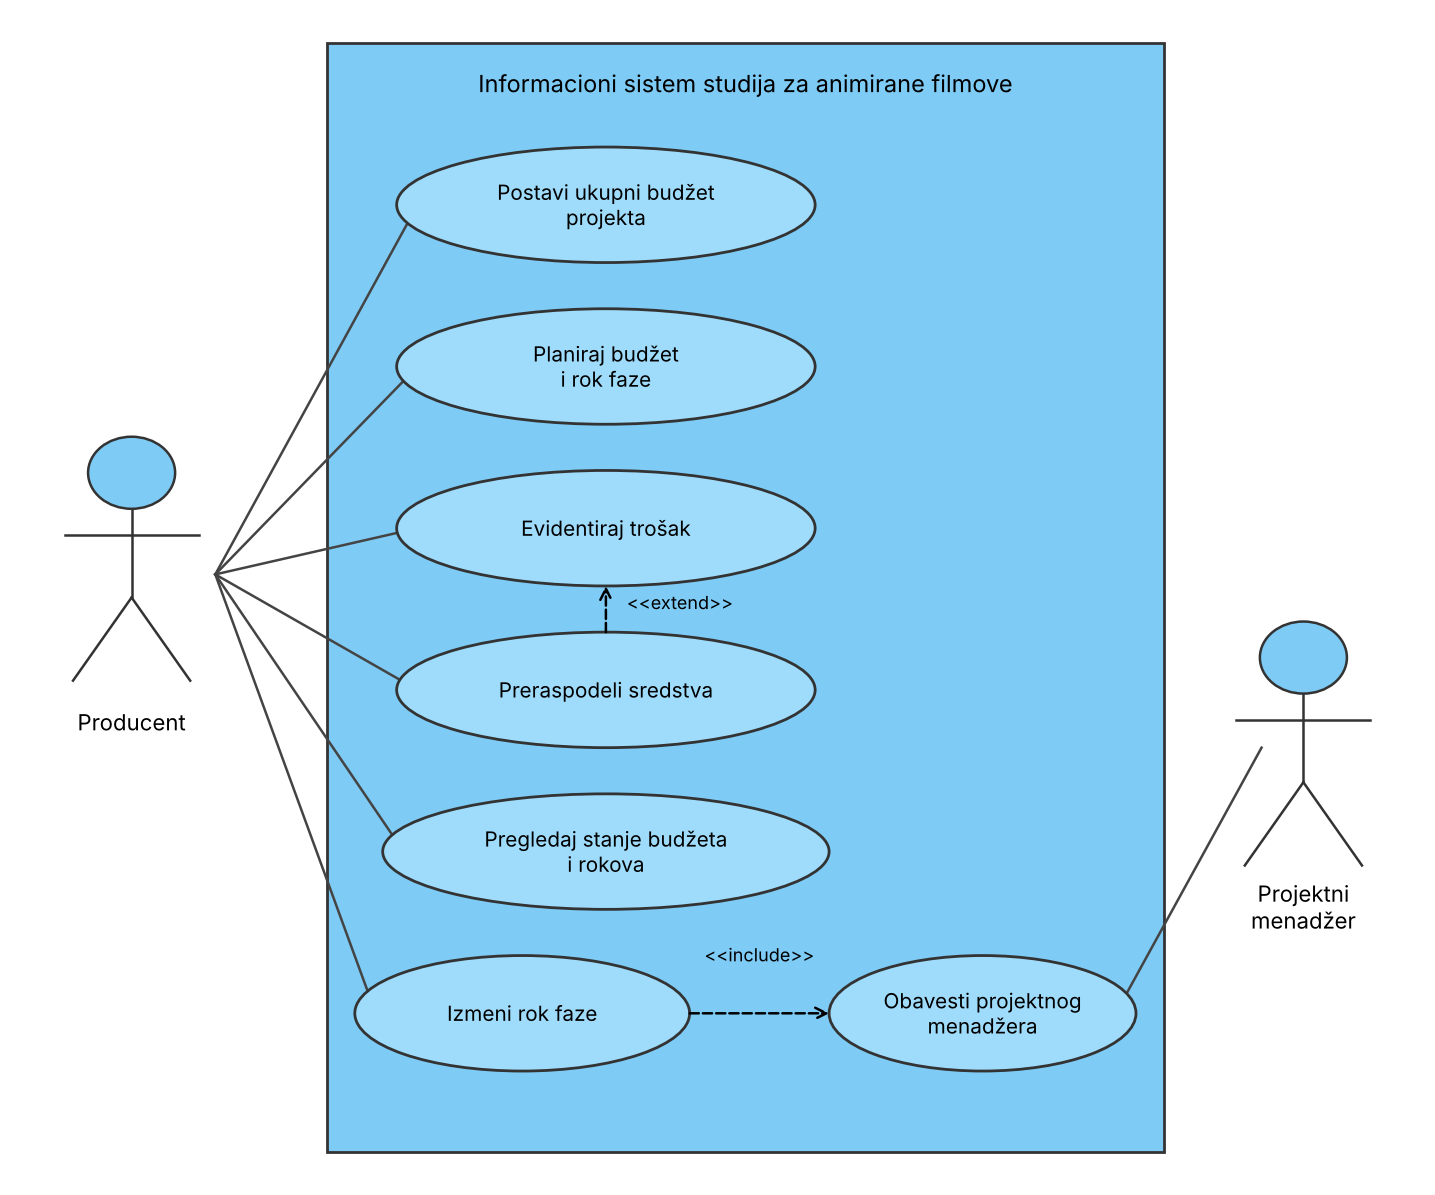
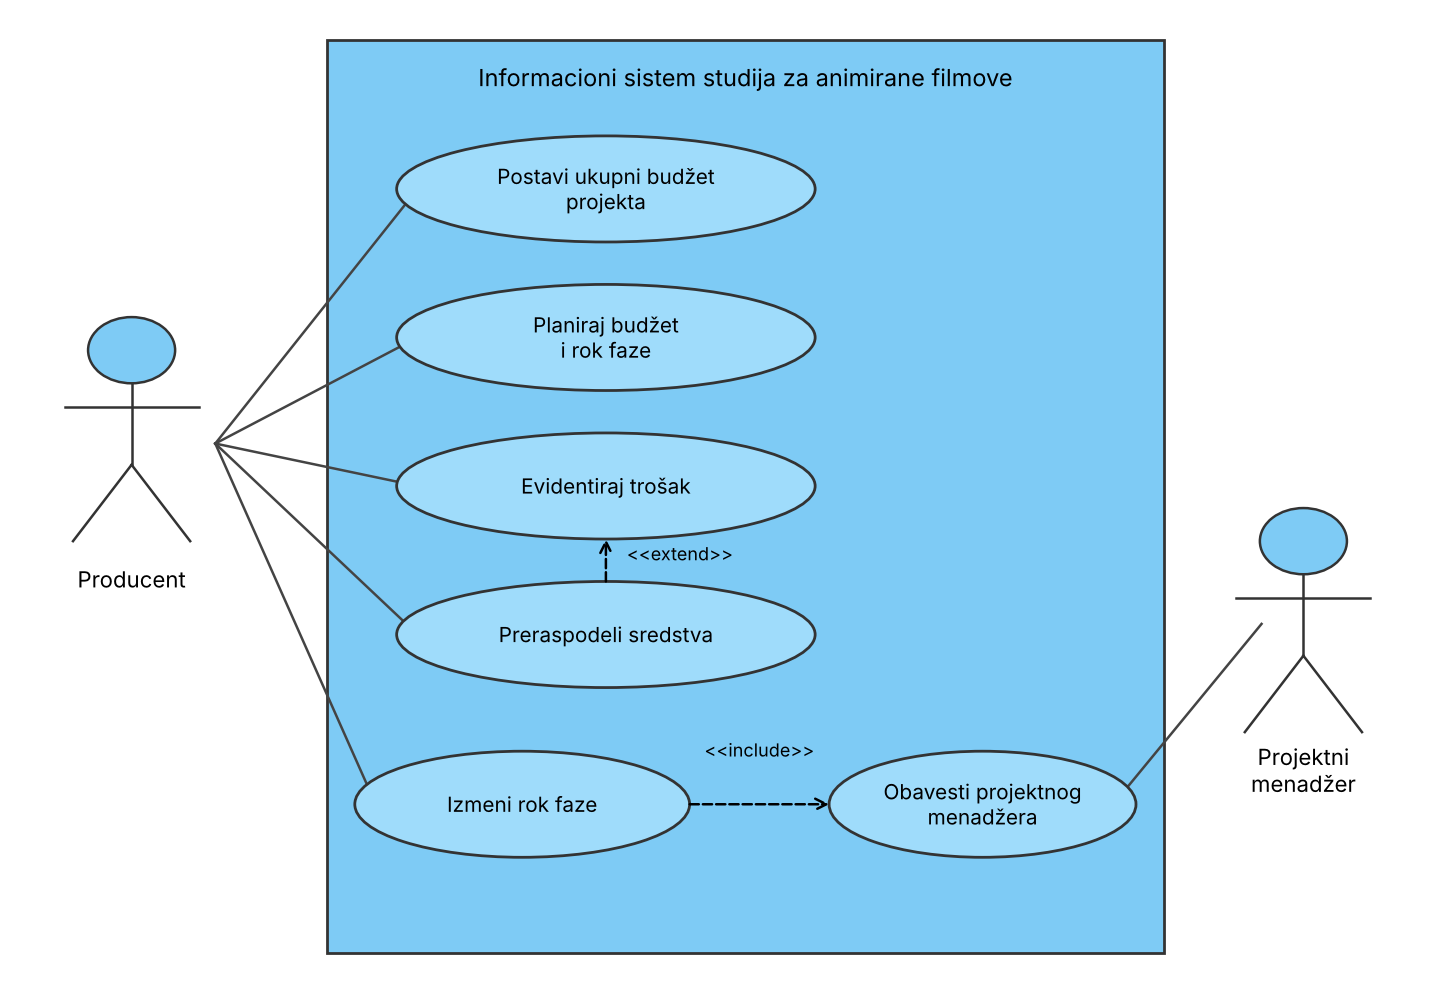
ispravka su upravljanje budzetom i rokovima

diff --git a/dokumentacija/upravljanje_budzetom_i_rokovima.tex b/dokumentacija/upravljanje_budzetom_i_rokovima.tex
@@ -2,12 +2,7 @@
 
 \subsubsection*{Kratak opis}
 
-Producent za projekat animiranog filma postavlja ukupni budžet i planira
-budžet i rokove po fazama produkcije (razvoj ideje, scenario, dizajn,
-animacija, montaža, postprodukcija, distribucija). Tokom produkcije evidentira
-troškove, prati utrošak sredstava i poštovanje rokova, a kada se približi
-granici budžeta ili roka, preraspodeljuje sredstva ili menja rok faze.
-Projektni menadžer obaveštava se o promenama rokova faza, jer na osnovu njih organizuje produkciju i dodeljuje zadatke.
+Producent za projekat animiranog filma postavlja ukupni budžet i rokove po fazama produkcije, a zatim evidentira troškove i prati utrošak. Kada utrošak ili rok pređu dozvoljenu granicu, producent preraspodeljuje sredstva ili menja rok faze, a projektni menadžer se obaveštava o promeni roka.
 
 \subsubsection*{Akteri}
 \begin{itemize}
@@ -31,61 +26,85 @@ Projektni menadžer obaveštava se o promenama rokova faza, jer na osnovu njih o
 \begin{enumerate}
     \item Producent bira projekat i opciju ,,Budžet i rokovi''.
     \item Sistem prikazuje pregled faza produkcije sa planiranim budžetom, rokovima i trenutnim utroškom.
-    \item Producent bira opciju ,,Planiraj budžet'' i unosi ukupni budžet projekta, kao i za svaku fazu planirani iznos, datum početka i datum završetka.
+    \item Producent bira opciju ,,Planiraj budžet'' i unosi ukupni budžet projekta, kao i budžet i rokove za svaku fazu.
     \item Sistem proverava podatke i čuva budžet i rokove.
-    \item Producent bira opciju ,,Dodaj trošak'' i unosi fazu, iznos, datum i opis troška.
-    \item Sistem proverava podatke, evidentira trošak, ažurira utrošak faze i prikazuje preostala sredstva i procenat utroška. Koraci 5 i 6 se ponavljaju kad god nastane novi trošak.
-    \item Ako utrošak pređe 80\% budžeta faze ili je rok faze probijen, sistem prikazuje upozorenje i nudi preraspodelu sredstava (podtok P2) ili izmenu roka (podtok P1).
+    \item Producent bira opciju ,,Dodaj trošak'' i unosi podatke o trošku.
+    \item Sistem proverava podatke, evidentira trošak, ažurira utrošak faze i prikazuje preostala sredstva. Koraci 5 i 6 se ponavljaju za svaki novi trošak.
 \end{enumerate}
 
 \subsubsection*{Podtokovi}
 
-\paragraph*{P1: Izmena roka faze}
+\paragraph*{P1: Preraspodela sredstava između faza}
 \begin{enumerate}
-    \item Producent u pregledu faza bira fazu i opciju ,,Izmeni rok''.
+    \item Producent bira opciju ,,Preraspodeli sredstva''.
+    \item Producent bira fazu iz koje se sredstva prenose, fazu u koju se prenose, unosi iznos i razlog i potvrđuje.
+    \item Sistem proverava da budžet faze iz koje se sredstva prenose ne padne ispod već utrošenog iznosa, ažurira budžete obe faze i beleži izmenu. Ukupni budžet projekta ostaje isti.
+\end{enumerate}
+Podtok se poziva iz alternativnog toka A3, a po završetku se nastavlja od koraka 5 osnovnog toka.
+
+\paragraph*{P2: Izmena roka faze}
+\begin{enumerate}
+    \item Producent bira fazu i opciju ,,Izmeni rok''.
     \item Producent unosi novi datum početka i/ili završetka i razlog izmene.
     \item Sistem proverava da novi rok ne dolazi u sukob sa fazama koje zavise od izabrane faze, čuva izmenu i obaveštava projektnog menadžera.
 \end{enumerate}
-
-\paragraph*{P2: Preraspodela sredstava između faza}
-\begin{enumerate}
-    \item Producent bira opciju ,,Preraspodeli sredstva''.
-    \item Producent bira fazu iz koje se sredstva prenose, fazu u koju se prenose i iznos, unosi razlog i potvrđuje.
-    \item Sistem proverava da budžet faze izvora ne padne ispod već utrošenog iznosa, ažurira budžete obe faze i beleži izmenu. Ukupni budžet projekta ostaje isti.
-\end{enumerate}
-
-\paragraph*{P3: Pregled stanja budžeta i rokova}
-\begin{enumerate}
-    \item Producent bira opciju ,,Stanje budžeta i rokova''.
-    \item Sistem prikazuje za svaku fazu planirani budžet, utrošena sredstva, preostali iznos, odstupanje od plana i status roka (u roku, kasni, završena).
-    \item Producent po želji filtrira prikaz po fazi ili vremenskom periodu.
-\end{enumerate}
+Podtok se poziva iz alternativnog toka A4, a po završetku se nastavlja od koraka 5 osnovnog toka.
 
 \subsubsection*{Alternativni tokovi}
 
 \paragraph*{A1: Nepopunjena ili neispravna polja}
 \begin{itemize}
-    \item U koracima 4 i 6 osnovnog toka, kao i u koracima 3 podtoka P1 i P2, ako neko obavezno polje nije popunjeno ili je neispravno (datum završetka pre datuma početka, zbir budžeta faza veći od ukupnog budžeta), sistem ga označava i vraća producenta na unos.
+    \item \textbf{Izaziva ga:} korak 4 i korak 6 osnovnog toka, kao i korak 3 podtokova P1 i P2, ako neko obavezno polje nije popunjeno ili je neispravno (datum završetka pre datuma početka, zbir budžeta faza veći od ukupnog budžeta).
+    \item \textbf{Ispravka:}
+    \begin{enumerate}
+        \item Sistem označava neispravna polja i prikazuje poruku o grešci.
+        \item Producent ispravlja podatke i ponovo potvrđuje unos.
+    \end{enumerate}
+    \item \textbf{Povratak:} na korak 3 osnovnog toka (ako je izazvan korakom 4), na korak 5 osnovnog toka (ako je izazvan korakom 6), odnosno na korak 2 podtoka.
 \end{itemize}
 
 \paragraph*{A2: Budžet je već postavljen}
 \begin{itemize}
-    \item U koraku 3 osnovnog toka, ako projekat već ima budžet, sistem prikazuje postojeće vrednosti za izmenu umesto praznog unosa; izmena se čuva uz razlog.
+    \item \textbf{Izaziva ga:} korak 3 osnovnog toka, ako projekat već ima postavljen budžet.
+    \item \textbf{Ispravka:}
+    \begin{enumerate}
+        \item Sistem prikazuje postojeće vrednosti budžeta i rokova za izmenu.
+        \item Producent menja vrednosti i unosi razlog izmene.
+    \end{enumerate}
+    \item \textbf{Povratak:} na korak 4 osnovnog toka.
 \end{itemize}
 
-\paragraph*{A3: Prekoračenje budžeta faze}
+\paragraph*{A3: Utrošak faze prešao 80\% budžeta ili je budžet prekoračen}
 \begin{itemize}
-    \item U koraku 6 osnovnog toka, ako bi trošak premašio preostala sredstva faze, sistem upozorava producenta i nudi preraspodelu sredstava (podtok P2) ili evidentiranje troška uz obavezno obrazloženje.
+    \item \textbf{Izaziva ga:} korak 6 osnovnog toka, ako utrošak faze pređe 80\% njenog budžeta ili ako trošak premašuje preostala sredstva faze.
+    \item \textbf{Ispravka:}
+    \begin{enumerate}
+        \item Sistem prikazuje upozorenje o stanju budžeta faze. Ako trošak premašuje preostala sredstva, ne evidentira ga dok producent ne izabere nastavak.
+        \item Producent bira preraspodelu sredstava (podtok P1) ili nastavlja bez preraspodele, uz unos obrazloženja ako je budžet prekoračen.
+        \item Sistem evidentira trošak i prikazuje ažurirano stanje faze.
+    \end{enumerate}
+    \item \textbf{Povratak:} na korak 5 osnovnog toka.
 \end{itemize}
 
 \paragraph*{A4: Probijen rok faze}
 \begin{itemize}
-    \item U koraku 7 osnovnog toka i u podtoku P3, ako je datum završetka faze prošao, a faza nije završena, sistem je označava kao ,,kasni'' i nudi izmenu roka (podtok P1).
+    \item \textbf{Izaziva ga:} korak 6 osnovnog toka, ako je datum završetka faze prošao, a faza nije završena.
+    \item \textbf{Ispravka:}
+    \begin{enumerate}
+        \item Sistem označava fazu kao ,,kasni'' i prikazuje upozorenje.
+        \item Producent bira izmenu roka (podtok P2) ili nastavlja bez izmene.
+    \end{enumerate}
+    \item \textbf{Povratak:} na korak 5 osnovnog toka.
 \end{itemize}
 
 \paragraph*{A5: Odustajanje}
 \begin{itemize}
-    \item U bilo kom koraku producent može da odustane; sistem ne čuva nesačuvane izmene i vraća ga na stranicu projekta.
+    \item \textbf{Izaziva ga:} bilo koji korak osnovnog toka ili podtokova, ako producent odustane.
+    \item \textbf{Ispravka:}
+    \begin{enumerate}
+        \item Sistem odbacuje nesačuvane izmene i vraća producenta na stranicu projekta.
+    \end{enumerate}
+    \item \textbf{Povratak:} nema povratka, slučaj upotrebe se završava.
 \end{itemize}
 
 \subsubsection*{Specijalni zahtevi}
@@ -97,25 +116,33 @@ Projektni menadžer obaveštava se o promenama rokova faza, jer na osnovu njih o
 
 \subsubsection*{Dodatne informacije}
 \begin{itemize}
+    \item Budžet i rok se planiraju za faze produkcije: razvoj ideje, scenario, dizajn likova i okruženja, animacija, montaža, postprodukcija i distribucija.
+    \item Polja formulara za budžet projekta: ukupni budžet, valuta.
+    \item Polja formulara za fazu: naziv faze, planirani budžet, datum početka, datum završetka, odgovorni tim.
+    \item Polja formulara za trošak: faza, iznos, datum, opis.
+    \item Polja formulara za preraspodelu sredstava: faza iz koje se prenose sredstva, faza u koju se prenose, iznos, razlog.
+    \item Polja formulara za izmenu roka: novi datum početka, novi datum završetka, razlog izmene.
+    \item Upozorenje se prikazuje kada utrošak faze pređe 80\% njenog budžeta ili kada rok faze bude probijen.
+    \item Projektni menadžer se obaveštava o promeni roka jer na osnovu rokova organizuje produkciju i dodeljuje zadatke.
     \item Pregled izveštaja o realizaciji projekata je zaseban slučaj upotrebe.
 \end{itemize}
 
 
 \begin{figure}[H]
 	\centering
-	\includegraphics[width=\textwidth]{./dijagrami/dijagrami_slucajeva_upotrebe/upravljanje_budzetom_i_rokovima.png}
+	\includegraphics[width=\textwidth]{./dijagrami/dijagrami_slucajeva_upotrebe/1.png}
 	\caption{Dijagram slučaja upotrebe ,,Upravljanje budžetom i rokovima''}
  \end{figure}
 
 \begin{figure}[H]
 	\centering
-	\includegraphics[width=\textwidth,height=0.8\textheight,keepaspectratio]{./dijagrami/dijagrami_aktivnosti/upravljanje_budzetom_i_rokovima.png}
+	\includegraphics[width=\textwidth,height=0.8\textheight,keepaspectratio]{./dijagrami/dijagrami_aktivnosti/2.png}
 	\caption{Dijagram aktivnosti ,,Upravljanje budžetom i rokovima''}
  \end{figure}
 
 \begin{figure}[H]
 	\centering
-	\includegraphics[width=\textwidth]{./dijagrami/dijagrami_sekvence/upravljanje_budzetom_i_rokovima.png}
+	\includegraphics[width=\textwidth]{./dijagrami/dijagrami_sekvence/3.png}
 	\caption{Dijagram sekvence ,,Upravljanje budžetom i rokovima''}
  \end{figure}
 
